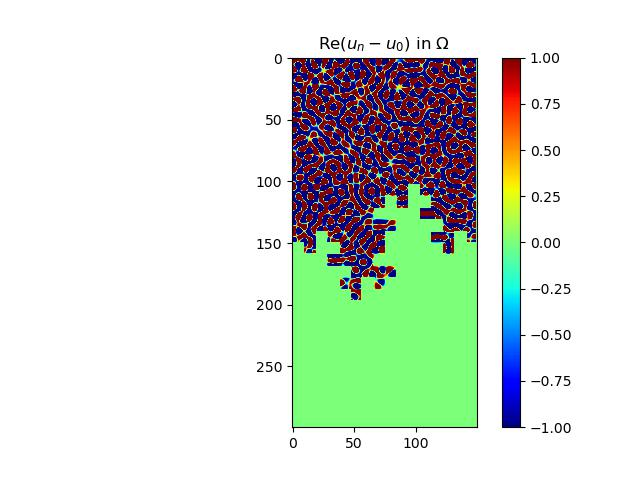
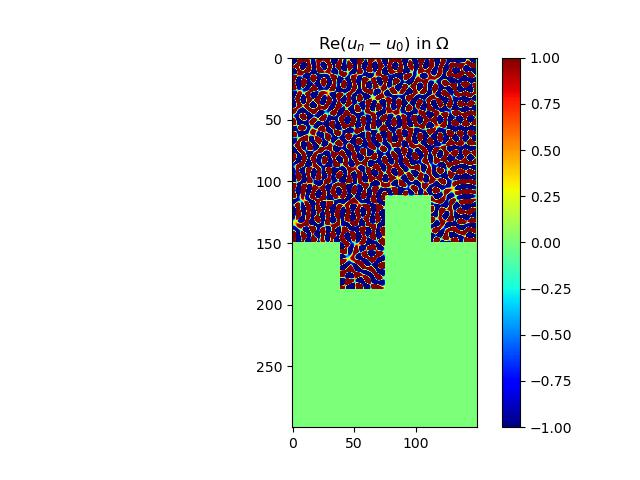
changes

Changed region(s): [[0.4375, 0.0938, 0.75, 0.625]]

diff --git a/demo_control_polycopie.py b/demo_control_polycopie.py
@@ -14,6 +14,7 @@ import processing
 import postprocessing
 #import solutions
 
+
 def is_in_interest_domain(i, j):
     """
     This function checks if the node (i, j) is in the interest domain (interior + Robin frontier).
@@ -62,6 +63,7 @@ def your_optimization_procedure(domain_omega, spacestep, omega, f, f_dir, f_neu,
     while k < numb_iter and mu > 10 ** -5:
         print('---- iteration number = ', k)
         print('1. computing solution of Helmholtz problem, i.e., u')
+        alpha_rob = chi.copy() * Alpha
         u=processing.solve_helmholtz(domain_omega, spacestep, omega,
                     f, f_dir, f_neu, f_rob,
                     beta_pde, alpha_pde, alpha_dir, beta_neu, beta_rob, alpha_rob)
@@ -104,11 +106,10 @@ def your_optimization_procedure(domain_omega, spacestep, omega, f, f_dir, f_neu,
                     l = l+ 1e-5
                 chi_trial = project(l, chi_trial)
                 counter += 1
-            chi = chi_trial.copy()
 
 
             print('    c. computing solution of Helmholtz problem, i.e., u')
-            alpha_rob = chi.copy() * Alpha
+            alpha_rob = chi_trial.copy() * Alpha
             u=processing.solve_helmholtz(domain_omega, spacestep, omega,
                     f, f_dir, f_neu, f_rob,
                     beta_pde, alpha_pde, alpha_dir, beta_neu, beta_rob, alpha_rob)
@@ -117,17 +118,17 @@ def your_optimization_procedure(domain_omega, spacestep, omega, f, f_dir, f_neu,
             ene = np.real(compute_objective_function(domain_omega, u, spacestep, mu1, V_0))
             
             if  ene < energy[k]:
+                print('    e. energy decreased, increasing mu and trying again')
                 # The step is increased if the energy decreased
-                mu = mu + 1
+                mu = mu*1.1
             else:
+                print('    e. energy increased, decreasing mu and trying again')
                 # The step is decreased is the energy increased
                 mu = mu / 2
-            print('------------- mu:', mu)
+        chi = chi_trial.copy()
         k += 1
         print('Energy at iteration ', k, ': ', ene)
         
-
-    print('end. computing solution of Helmholtz problem, i.e., u')
 
     return chi, energy, u, grad
 
@@ -177,7 +178,7 @@ if __name__ == '__main__':
     # -- set parameters of the geometry
     N = 150  # number of points along x-axis
     M = 2 * N  # number of points along y-axis
-    level = 2 # level of the fractal
+    level = 1 # level of the fractal
     spacestep = 1.0 / N  # mesh size
 
     # -- set parameters of the partial differential equation
@@ -259,6 +260,56 @@ if __name__ == '__main__':
     #                    beta_pde, alpha_pde, alpha_dir, beta_neu, beta_rob, alpha_rob,
     #                    Alpha, mu, chi, V_obj, mu1, V_0)
     # --- en of optimization
+
+
+
+
+
+
+    '''
+    # build a binary design by keeping the largest V_obj values of chi
+    (M, N) = numpy.shape(domain_omega)
+    total_cells = M * N
+    n_select = int(max(0, min(total_cells, V_obj)))  # ensure integer and within bounds
+
+    flat_chi = chi.flatten()
+    if n_select == 0:
+        chi = numpy.zeros_like(chi)
+    else:
+        # indices of the largest n_select entries
+        idx = numpy.argsort(flat_chi)[-n_select:]
+        new_flat = numpy.zeros_like(flat_chi)
+        new_flat[idx] = 1.0
+        chi = new_flat.reshape((M, N))
+
+    # compute forward solution with the binarized chi
+    alpha_rob = chi.copy() * Alpha
+    u = processing.solve_helmholtz(domain_omega, spacestep, wavenumber,
+                                   f, f_dir, f_neu, f_rob,
+                                   beta_pde, alpha_pde, alpha_dir, beta_neu, beta_rob, alpha_rob)
+
+    # build adjoint right-hand side (same indicator pattern as used previously)
+    fadj_indicator = np.ones_like(f, dtype=complex)
+    for i, j in numpy.ndindex(fadj_indicator.shape):
+        if is_in_interest_domain(i, j):
+            fadj_indicator[i, j] = 2.0 + 0j
+    fadj = -2 * fadj_indicator * np.conj(u)
+
+    # solve adjoint
+    p = processing.solve_helmholtz(domain_omega, spacestep, wavenumber,
+                                   fadj, f_dir, f_neu, f_rob,
+                                   beta_pde, alpha_pde, alpha_dir, beta_neu, beta_rob, alpha_rob)
+
+    # gradient and energy for the final design
+    grad = -1 * np.real(Alpha * u * p)
+    energy = np.real(compute_objective_function(domain_omega, u, spacestep, mu1, V_0))
+
+    '''
+
+
+
+
+
 
     chin = chi.copy()
     un = u.copy()
